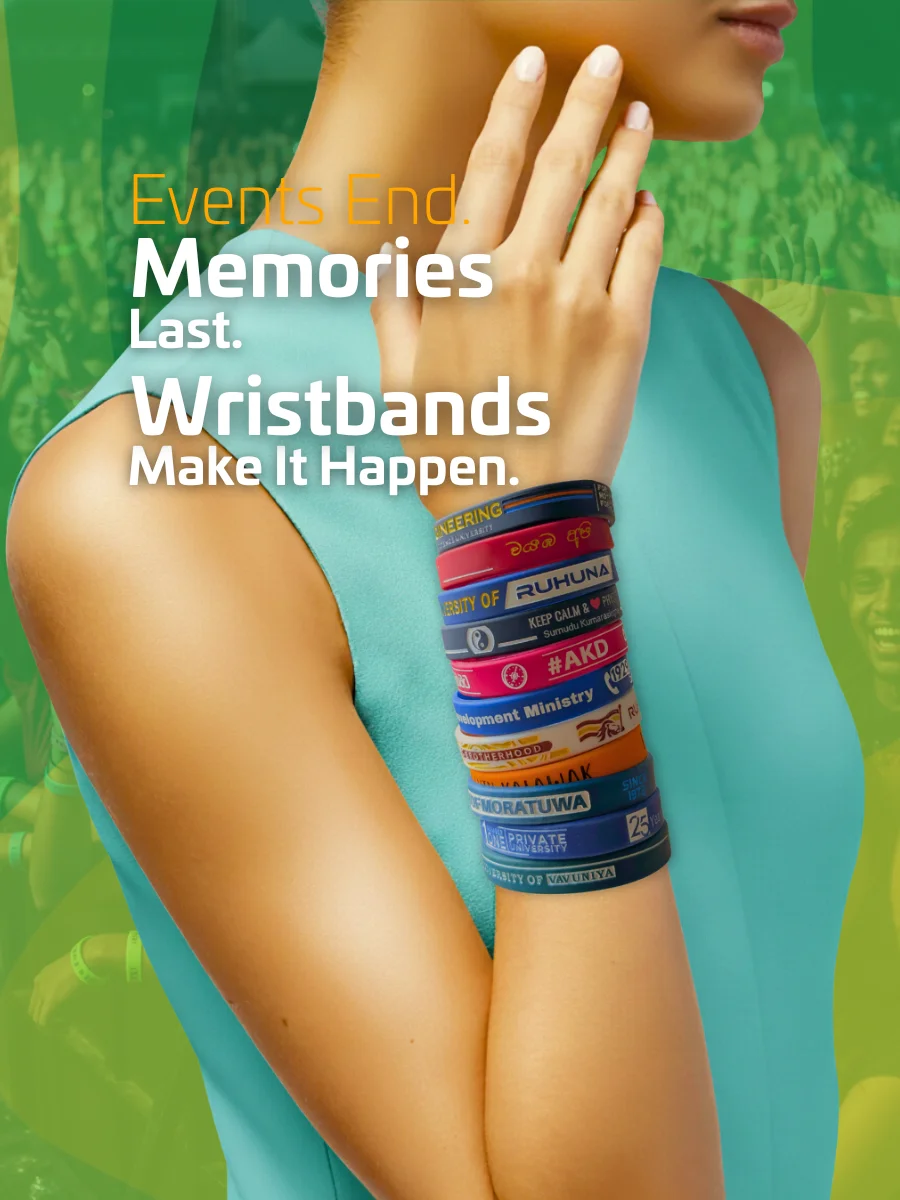
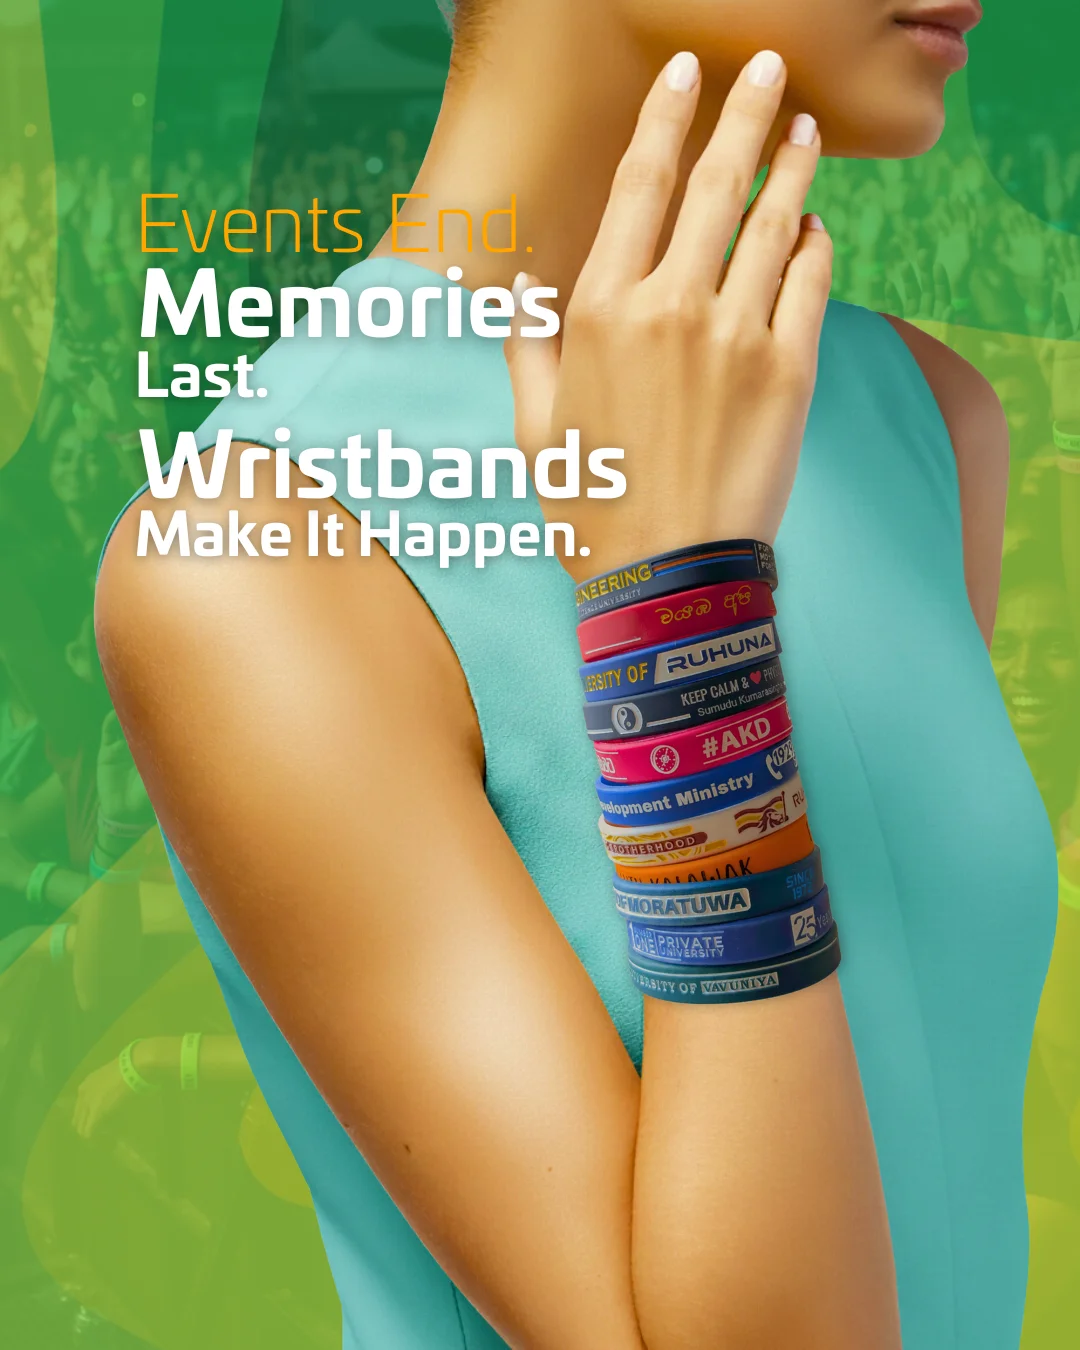
carousal and footer fixed

diff --git a/components/hero-carousel.tsx b/components/hero-carousel.tsx
@@ -9,33 +9,48 @@ const slides = [
     desktopImage: "/Final-Web-Images/Images/Home-page/Lap/1.webp",
     tabletImage: "/Final-Web-Images/Images/Home-page/tab/1.webp",
     mobileImage: "/Final-Web-Images/Images/Home-page/Mobile/1.webp",
-    alt: "Family wearing custom silicone wristbands",
+    alt: "Island delivery of wristbands in Sri Lanka",
+    heading: "From Our Hands to Yours – Fast, Islandwide Delivery.",
+    subheading:
+      "Wherever you are in Sri Lanka, your wristbands reach you on time.",
+    textPosition: "right-bottom",
   },
   {
     desktopImage: "/Final-Web-Images/Images/Home-page/Lap/2.webp",
     tabletImage: "/Final-Web-Images/Images/Home-page/tab/2.webp",
     mobileImage: "/Final-Web-Images/Images/Home-page/Mobile/2.webp",
-    alt: "Island delivery of wristbands in Sri Lanka",
+    alt: "Family wearing custom silicone wristbands",
+    heading: "One Band, All Ages. One Style, Endless Smiles.",
+    subheading:
+      "Silicone solutions for kids, teens, and adults—perfect for everyone.",
+    textPosition: "right-top",
   },
   {
     desktopImage: "/Final-Web-Images/Images/Home-page/Lap/3.webp",
     tabletImage: "/Final-Web-Images/Images/Home-page/tab/3.webp",
     mobileImage: "/Final-Web-Images/Images/Home-page/Mobile/3.webp",
     alt: "Events identification bracelets",
+    heading: "No Design? No Problem. We'll Create It With You.",
+    subheading:
+      "Enjoy free design support with unlimited revisions—stress-free ordering.",
+    textPosition: "right-bottom",
   },
   {
     desktopImage: "/Final-Web-Images/Images/Home-page/Lap/4.webp",
     tabletImage: "/Final-Web-Images/Images/Home-page/tab/4.webp",
     mobileImage: "/Final-Web-Images/Images/Home-page/Mobile/4.webp",
-    alt: "Free handbands designs support",
+    alt: "Events identification bracelets",
+    heading: "Events End. Memories Last. Wristbands Make It Happen.",
+    subheading:
+      "Turn every gathering into a lasting memory with custom wristbands.",
+    textPosition: "right-bottom",
   },
 ];
 
-// Image aspect ratios
 const IMAGE_RATIOS = {
-  desktop: 3840 / 1600, // 2.4 (ultra-wide)
-  tablet: 1080 / 1350, // 0.8 (portrait)
-  mobile: 900 / 1200, // 0.75 (portrait)
+  desktop: 3840 / 1600,
+  tablet: 1080 / 1350,
+  mobile: 900 / 1200,
 };
 
 export function HeroCarousel() {
@@ -48,14 +63,12 @@ export function HeroCarousel() {
       const screenHeight = window.innerHeight;
       const screenRatio = screenWidth / screenHeight;
 
-      // Calculate the difference between screen ratio and each image ratio
       const differences = {
         desktop: Math.abs(screenRatio - IMAGE_RATIOS.desktop),
         tablet: Math.abs(screenRatio - IMAGE_RATIOS.tablet),
         mobile: Math.abs(screenRatio - IMAGE_RATIOS.mobile),
       };
 
-      // Find the image type with the smallest difference
       const closest = Object.entries(differences).reduce((a, b) =>
         a[1] < b[1] ? a : b
       )[0];
@@ -101,8 +114,32 @@ export function HeroCarousel() {
     }
   };
 
+  const getTextPositionClasses = (position) => {
+    switch (position) {
+      case "right-bottom":
+        return "absolute bottom-6 md:bottom-8 right-0 px-4 md:px-8 lg:px-12 text-right flex justify-end";
+      case "right-top":
+        return "absolute top-6 md:top-8 right-0 px-4 md:px-8 lg:px-12 text-right flex justify-end";
+      default:
+        return "absolute bottom-6 md:bottom-8 right-0 px-4 md:px-8 lg:px-12 text-right flex justify-end";
+    }
+  };
+
   return (
     <div className="relative w-full h-full overflow-hidden group">
+      <style>{`
+        @keyframes slideInText {
+          from {
+            opacity: 0;
+            transform: translateY(30px);
+          }
+          to {
+            opacity: 1;
+            transform: translateY(0);
+          }
+        }
+      `}</style>
+
       {/* Slides Container */}
       <div className="relative w-full h-full">
         {slides.map((slide, index) => (
@@ -130,13 +167,12 @@ export function HeroCarousel() {
               />
             </div>
 
-            {/* Gradient overlay for better text visibility */}
             <div className="absolute inset-0 bg-gradient-to-t from-black/70 via-black/30 to-transparent pointer-events-none" />
           </div>
         ))}
       </div>
 
-      {/* Navigation Arrows - Hidden on mobile, visible on hover for desktop */}
+      {/* Navigation Arrows */}
       <button
         onClick={goToPrevious}
         className="hidden sm:flex absolute left-4 top-1/2 -translate-y-1/2 z-20 bg-white/10 hover:bg-white/20 backdrop-blur-sm text-white p-3 rounded-full opacity-0 group-hover:opacity-100 transition-opacity duration-300"
@@ -169,22 +205,94 @@ export function HeroCarousel() {
         ))}
       </div>
 
-      {/* Content Overlay */}
-      <div className="absolute bottom-20 md:bottom-24 left-0 right-0 px-4 md:px-8 lg:px-12 z-20">
-        <div className="max-w-7xl mx-auto">
-          <div className="text-center md:text-right text-white md:ml-auto md:max-w-2xl">
-            <h1 className="text-xl sm:text-2xl md:text-3xl lg:text-4xl xl:text-5xl font-bold leading-tight drop-shadow-2xl">
-              Silicone solutions for kids, teens, and adults—perfect for
-              everyone.
-            </h1>
+      {/* Dynamic Content Overlay */}
+      <div className="absolute inset-0 z-20 pointer-events-none">
+        {slides.map((slide, index) => (
+          <div
+            key={index}
+            className={`absolute inset-0 transition-all duration-700 ease-out ${
+              index === currentSlide
+                ? "opacity-100"
+                : "opacity-0 pointer-events-none"
+            }`}
+          >
+            <div className={getTextPositionClasses(slide.textPosition)}>
+              <div className="max-w-3xl lg:max-w-4xl">
+                {/* Decorative accent */}
+                <div
+                  className={`inline-block mb-3 transition-all duration-500 ${
+                    index === currentSlide
+                      ? "opacity-100 translate-y-0"
+                      : "opacity-0 -translate-y-4"
+                  }`}
+                  style={{ transitionDelay: "100ms" }}
+                >
+                  <div className="h-1 w-16 bg-gradient-to-r from-blue-400 to-purple-500 rounded-full"></div>
+                </div>
+
+                {/* Heading */}
+                <h2
+                  className={`text-white font-bold leading-tight mb-3 md:mb-4 text-2xl sm:text-3xl md:text-4xl lg:text-5xl xl:text-6xl transition-all duration-500 ${
+                    index === currentSlide
+                      ? "opacity-100 translate-y-0"
+                      : "opacity-0 translate-y-8"
+                  }`}
+                  style={{
+                    textShadow:
+                      "0 4px 20px rgba(0,0,0,0.7), 0 2px 8px rgba(0,0,0,0.5)",
+                    transitionDelay: "200ms",
+                  }}
+                >
+                  {slide.heading}
+                </h2>
+
+                {/* Subheading with icon */}
+                <div
+                  className={`flex items-start gap-2 transition-all duration-500 justify-end ${
+                    index === currentSlide
+                      ? "opacity-100 translate-y-0"
+                      : "opacity-0 translate-y-8"
+                  }`}
+                  style={{ transitionDelay: "300ms" }}
+                >
+                  <p
+                    className="text-white/95 font-medium leading-relaxed text-base sm:text-lg md:text-xl lg:text-2xl"
+                    style={{
+                      textShadow:
+                        "0 2px 12px rgba(0,0,0,0.7), 0 1px 4px rgba(0,0,0,0.5)",
+                    }}
+                  >
+                    {slide.subheading}
+                  </p>
+                  <span className="text-blue-400 text-xl md:text-2xl mt-1 flex-shrink-0">
+                    🔷
+                  </span>
+                </div>
+
+                {/* Decorative bottom accent */}
+                <div
+                  className={`mt-4 flex justify-end transition-all duration-500 ${
+                    index === currentSlide
+                      ? "opacity-100 scale-x-100"
+                      : "opacity-0 scale-x-0"
+                  }`}
+                  style={{
+                    transitionDelay: "400ms",
+                    transformOrigin: "right",
+                  }}
+                >
+                  <div className="h-0.5 w-24 bg-gradient-to-r from-transparent via-white/40 to-transparent"></div>
+                </div>
+              </div>
+            </div>
           </div>
-        </div>
+        ))}
       </div>
 
-      {/* Debug indicator - Remove in production */}
-      {/* <div className="absolute top-4 left-4 bg-black/50 text-white px-3 py-1 rounded text-xs z-30">
+      {/* Debug indicator */}
+      <div className="absolute top-4 left-4 bg-black/50 text-white px-3 py-1 rounded text-xs z-30">
         Using: {bestImageType}
-      </div> */}
+      </div>
     </div>
   );
 }

diff --git a/components/Footer.tsx b/components/Footer.tsx
@@ -5,17 +5,17 @@ import Image from "next/image";
 export default function Footer() {
   return (
     <footer className="bg-gray-200 text-black py-12 relative overflow-hidden">
-      <div className="container mx-auto w-max-8xl px-4">
-        <div className="grid grid-cols-1 md:grid-cols-12 gap-8 mb-4">
+      <div className="container mx-auto max-w-7xl px-0">
+        <div className="grid grid-cols-1 md:grid-cols-3 gap-8 mb-8">
           {/* Left Section - Logo and Description */}
-          <div className="md:col-span-3">
+          <div className="flex flex-col">
             <div className="bg-white rounded-full w-20 h-20 flex items-center justify-center mb-6 shadow-lg">
               <Image
                 src="/Mach-Wristband-Logo.png"
                 alt="Mach Wristbands Logo"
-                width={20}
-                height={20}
-                className="w-32 h-32 object-contain"
+                width={80}
+                height={80}
+                className="w-full h-full object-contain p-2"
               />
             </div>
             <p className="text-sm text-gray-700 leading-relaxed">
@@ -28,7 +28,7 @@ export default function Footer() {
           </div>
 
           {/* Center Section - Information and Social */}
-          <div className="md:col-span-5 flex flex-col items-center justify-start">
+          <div className="flex flex-col items-center justify-start">
             <div className="mb-8">
               <h3 className="text-2xl font-bold mb-4 text-center text-black">
                 INFORMATION
@@ -93,7 +93,7 @@ export default function Footer() {
           </div>
 
           {/* Right Section - Address */}
-          <div className="md:col-span-4">
+          <div className="flex flex-col">
             <h3 className="text-2xl font-bold mb-4 text-blue-900">Address</h3>
             <div className="space-y-3 text-blue-900">
               <p className="font-semibold text-lg">
@@ -112,13 +112,15 @@ export default function Footer() {
           </div>
         </div>
 
-        {/* Bottom Copyright */}
-        <p className="text-center text-black font-bold">
-          © 2025 Mach Wristbands Lanka. All rights reserved.
-        </p>
-
         {/* Yellow Circle Decoration */}
-        <div className="absolute bottom-4 right-4 w-32 h-32 bg-yellow-400 rounded-full shadow-2xl hidden lg:block"></div>
+        {/* <div className="absolute bottom-4 right-4 w-32 h-32 bg-yellow-400 rounded-full shadow-2xl hidden lg:block"></div> */}
+
+        {/* Bottom Copyright */}
+        <div className="border-t border-gray-300 pt-6">
+          <p className="text-center text-black font-bold">
+            © 2025 Mach Wristbands Lanka. All rights reserved.
+          </p>
+        </div>
       </div>
     </footer>
   );
